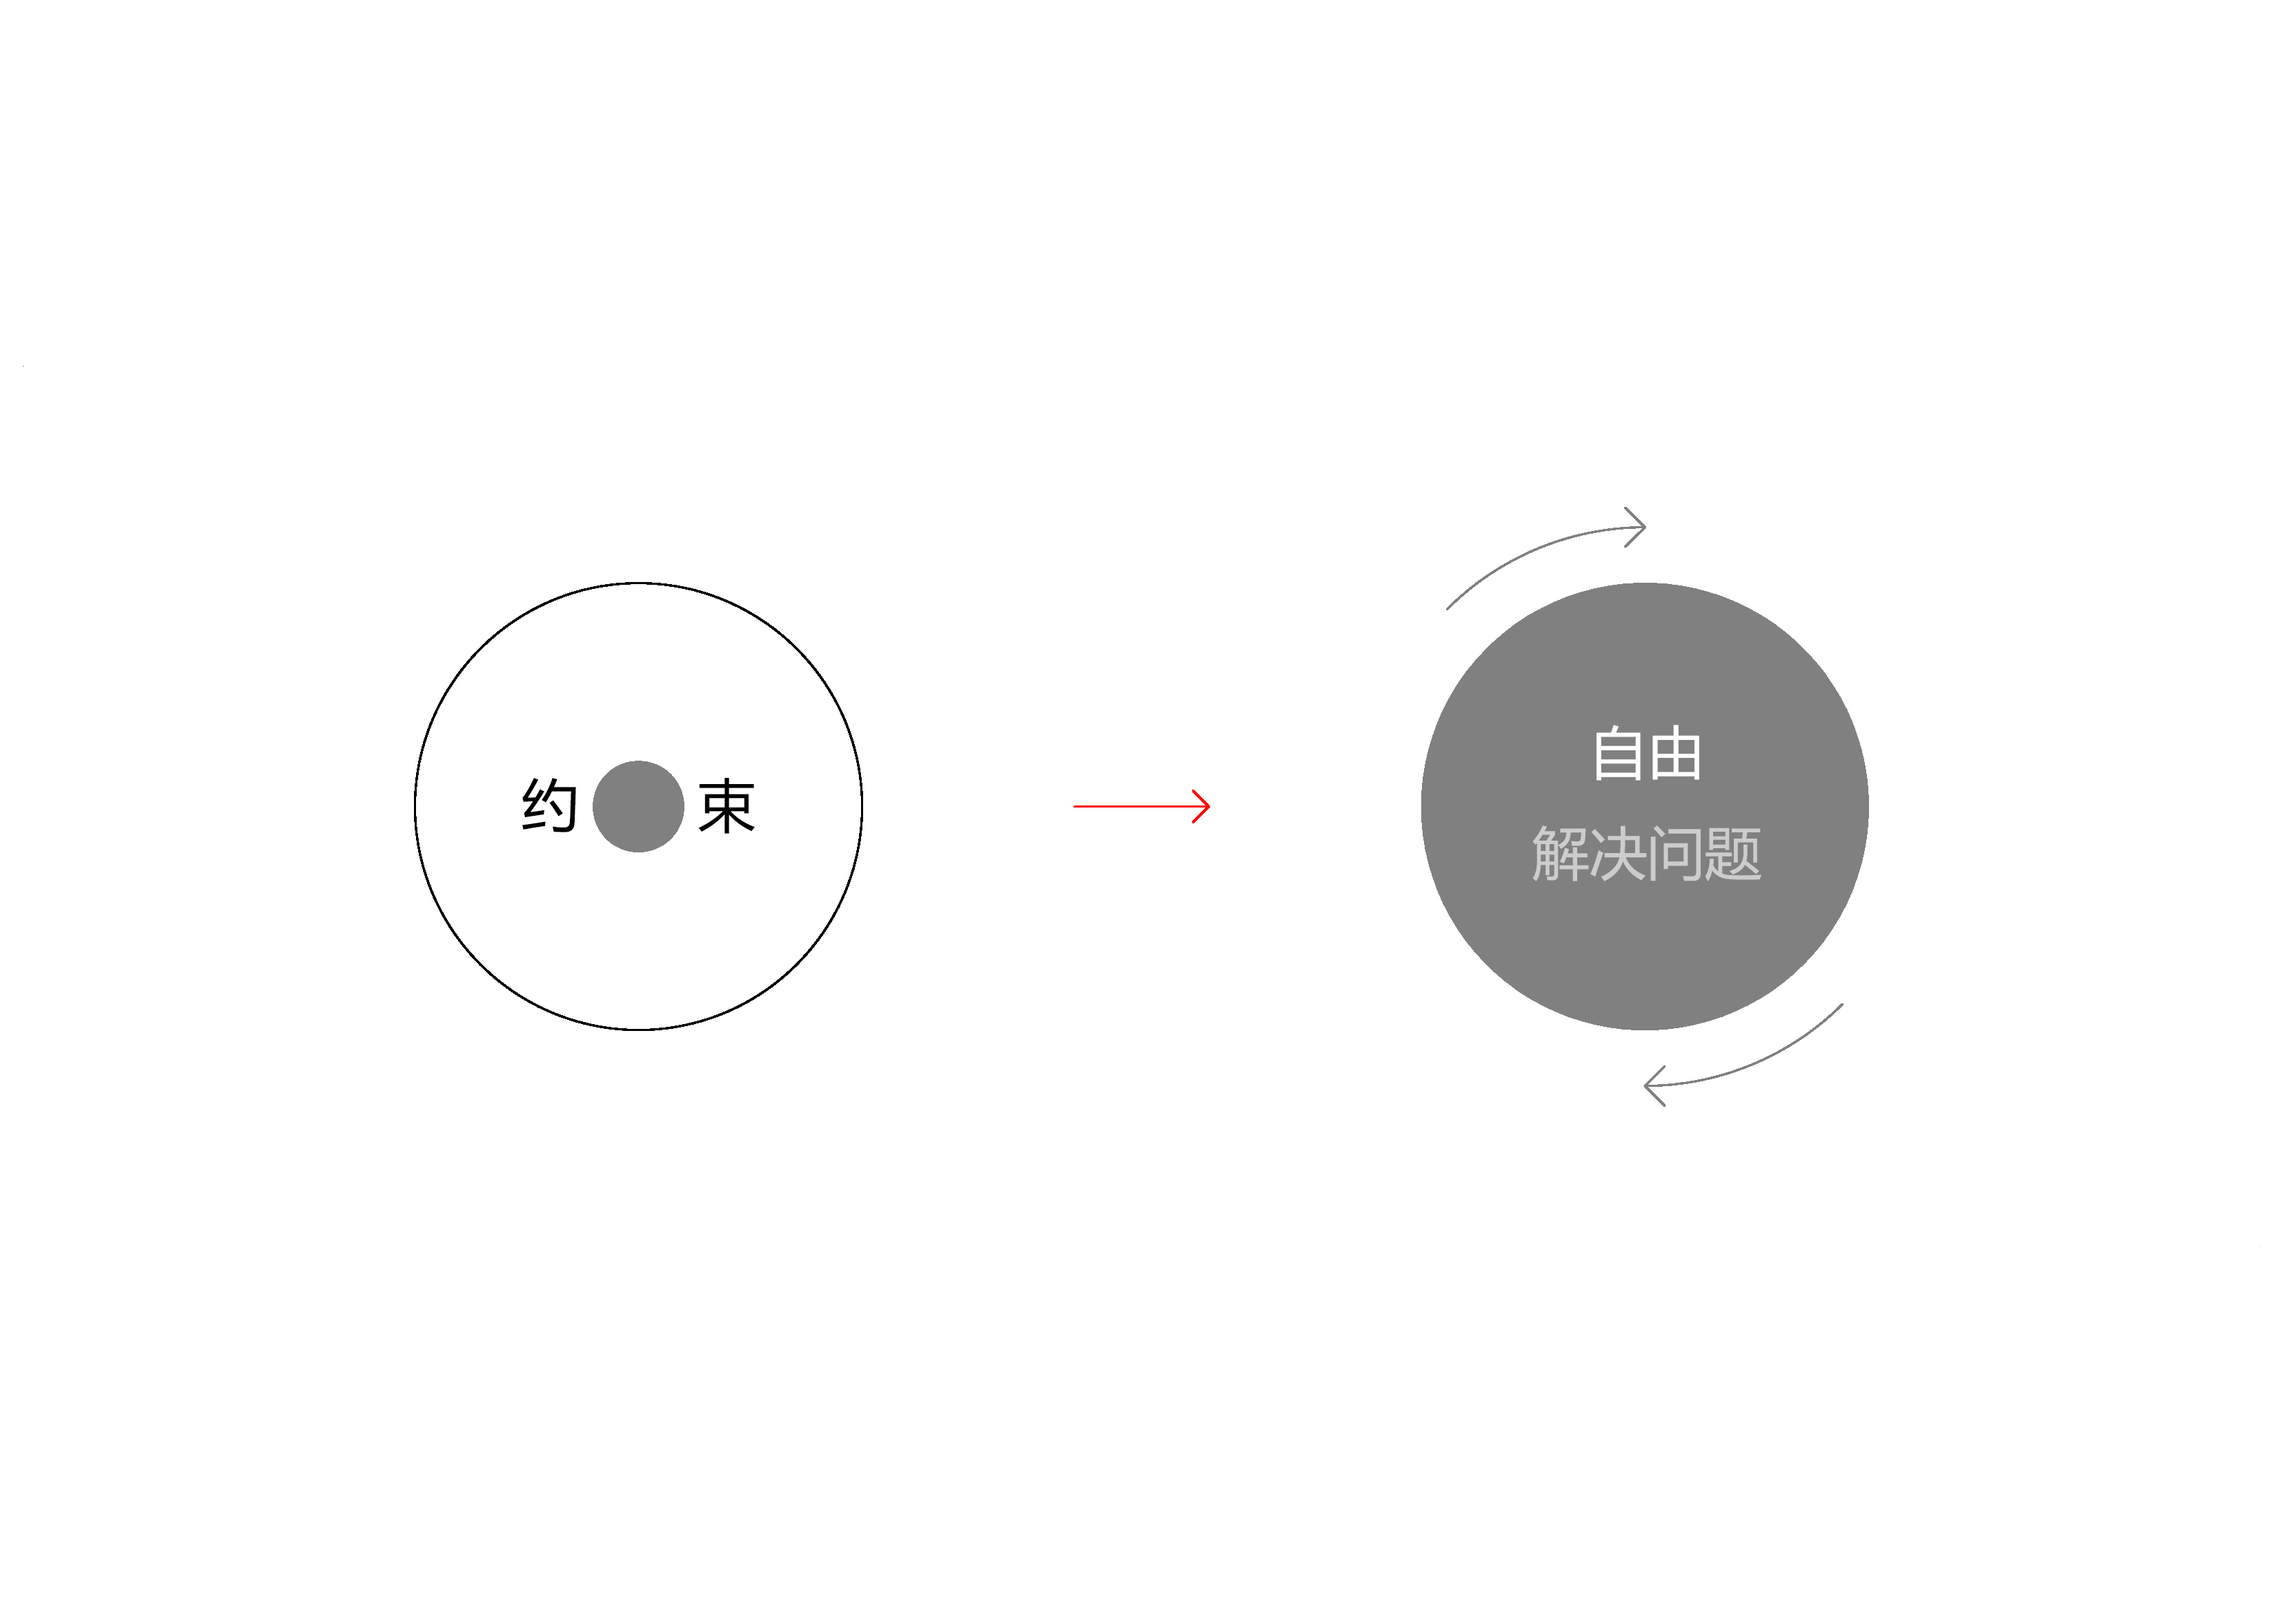
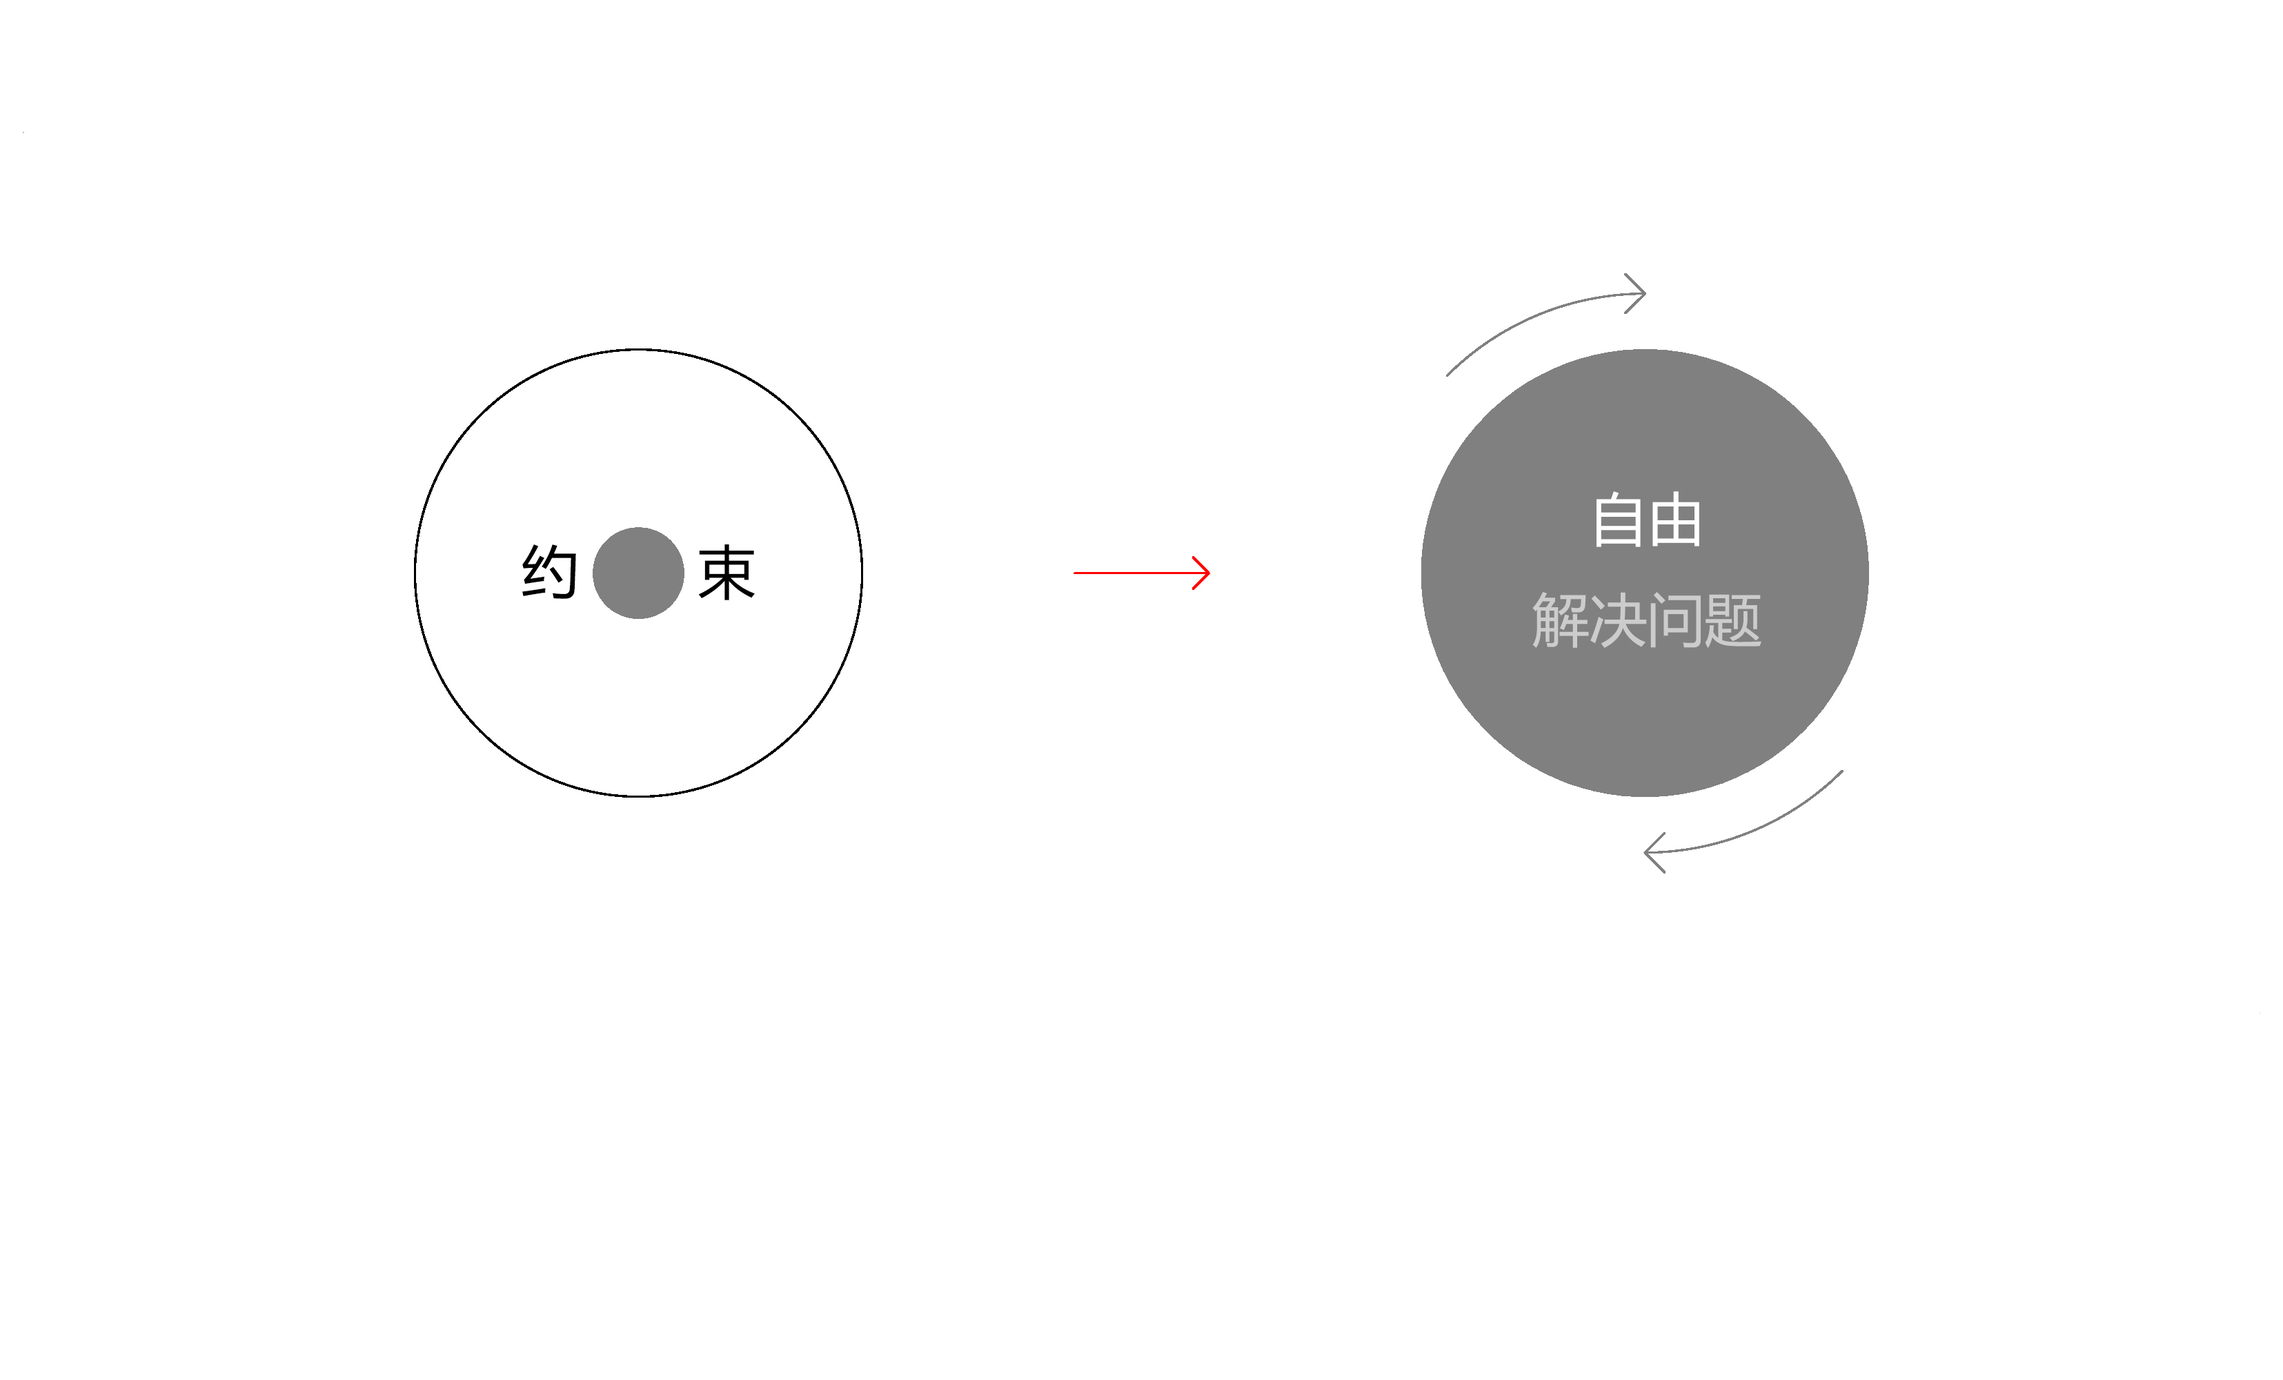
修改样式以及图片布局

Changed region(s): [[0.6225, 0.248, 0.8404, 0.651], [0.2179, 0.372, 0.3424, 0.527]]

diff --git a/views/expound.html b/views/expound.html
@@ -37,10 +37,10 @@
     <div class="itemContainer">
         <p>面对现实的纷繁芜杂的影响因素，面对建筑之六大困境（时滞，地缚，物限，势阻，文陷，人难），不建建筑（BJJZ）的术是从建造的本源动机出发，回归生命的本真态度，视建筑如生命，于约束中创造自由，在有限里激发无限。</p>
         <img class="nature" src="../../image/nature3.jpg">
+        <img class="nature" src="../image/nature4.jpg">
     </div>
     <div class="itemContainer">
         <p>不建建筑（BJJZ）的营造之道以道家思想为本源，以儒家思想为归属，以社会现实为发生，以理想超越为指引，提供蕴涵东方智慧的解决方案。</p>
-        <img class="nature" src="../image/nature4.jpg">
     </div>
 </div>
 <div class='menuBtnContainer'>

diff --git a/less/expound.less b/less/expound.less
@@ -34,7 +34,7 @@
         //margin-bottom: 80px;
       }
       .nature {
-        width: 600px;
+        width: 400px;
       }
     }
     .itemContainer:last-child{
